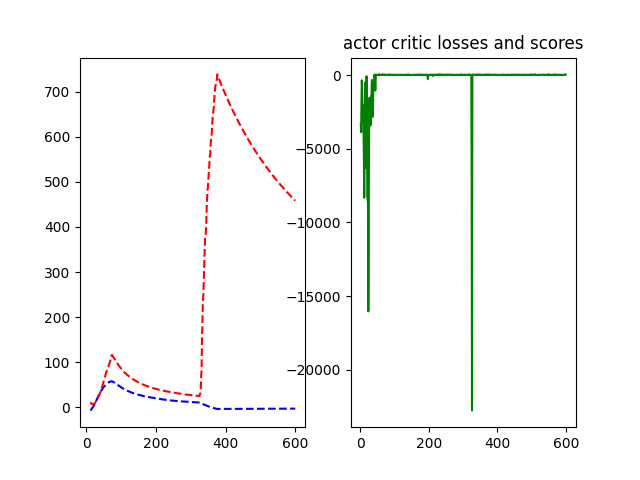
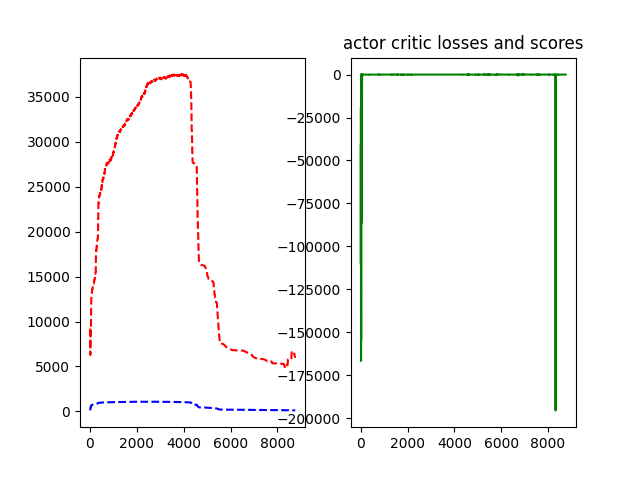
early_stop_1.0
add early stop button for agent

diff --git a/DDPG.py b/DDPG.py
@@ -29,13 +29,13 @@ run_step = 300000
 train_start_step = 5000
 
 state_size = 5
-action_size = 2
+action_size = 3
 
 mu = 0
 theta = 1e-3
 sigma = 2e-3
 
-load_model = False  # True for test, False for train
+load_model = True  # True for test, False for train
 load_param = False  # for continous learning
 train_mode = True if not load_model else False
 test_step = max_episode_steps
@@ -44,7 +44,7 @@ save_interval = 100
 
 date_time = datetime.datetime.now().strftime("%Y%m%d%H%M%S")
 save_path = f"./saved_models/{date_time}"
-load_path = f"./saved_models/env2"
+load_path = f"./saved_models/env1"
 
 x, y = sy.symbols('x y')
 
@@ -186,8 +186,8 @@ class DDPGAgent():
 
 
 if __name__ == "__main__":
-    env = env1
-    Z = Z1
+    env = env2
+    Z = Z2
 
     agent = DDPGAgent()
 
@@ -222,11 +222,12 @@ if __name__ == "__main__":
                 states[4] = float(sy.diff(Z, y).evalf(subs={x: states[0], y: states[1]}))
 
                 reward = (env(old_states[0], old_states[1]) - env(states[0], states[1])) * abs(env(old_states[0], old_states[1]) - env(states[0], states[1]))
-                reward -= 1
+                reward -= 0.1
 
                 ## if 모델이 충분히 최저점에 왔다고 판별을 하면 그만하기, +신경망으로 판별네트워크도 만들어야함
-
-                if count_step >= max_episode_steps:
+                if actions[0][2] >= 0 and random.randrange(100) < 50: # to prevent doing 'one move' and make some exploration
+                    actions[0][2] *= -1
+                if count_step >= max_episode_steps or (actions[0][2]) >= 0:
                     done = 1
                 agent.append_sample(old_states, copy.deepcopy(actions), reward, copy.deepcopy(states), done)
 
@@ -247,7 +248,6 @@ if __name__ == "__main__":
                 y_init = random.uniform(-5, 5)
                 states = [x_init, y_init, env(x_init, y_init), float(sy.diff(Z, x).evalf(subs={x: x_init, y: y_init})),
                                float(sy.diff(Z, y).evalf(subs={x: x_init, y: y_init}))]
-                count_step = 0
 
                 episode += 1
                 scores.append(score)
@@ -283,19 +283,21 @@ if __name__ == "__main__":
 
 
                 def animate(i):
-                    dx.append(agent.memory[i+len(agent.memory)-500][0][0])
-                    dy.append(agent.memory[i+len(agent.memory)-500][0][1])
-                    d.set_data(dx[i], dy[i])
+                    dx.append(agent.memory[i+len(agent.memory)-count_step][0][0])
+                    dy.append(agent.memory[i+len(agent.memory)-count_step][0][1])
+                    d.set_data(dx, dy)
 
                     return d,
 
-                anim = animation.FuncAnimation(fig, animate, frames=test_step, interval=100)
+                anim = animation.FuncAnimation(fig, animate, frames=count_step, interval=100)
 
                 writer = animation.PillowWriter(fps=15, metadata=dict(artist='Me'), bitrate=1800)
 
                 anim.save('./gifs/'+str(episode)+'.gif', writer=writer)
 
                 plt.close()
+
+                count_step = 0
 
         plt.subplot(121)
         plt.plot(range(1, len(iterations) + 1), actor_losses, 'b--')
@@ -314,9 +316,11 @@ if __name__ == "__main__":
         y_init = random.uniform(-5, 5)
         states = [x_init, y_init, env(x_init, y_init), float(sy.diff(Z, x).evalf(subs={x: x_init, y: y_init})),
                   float(sy.diff(Z, y).evalf(subs={x: x_init, y: y_init}))]
+        count_step = 0
 
         for step in range(test_step):
             if done == 0:  # not finished
+                count_step += 1
                 actions = agent.get_action(states, train_mode)
 
                 old_states = copy.deepcopy(states)
@@ -329,11 +333,11 @@ if __name__ == "__main__":
                 states[4] = float(sy.diff(Z, y).evalf(subs={x: states[0], y: states[1]}))
 
                 reward = (env(old_states[0], old_states[1]) - env(states[0], states[1])) * abs(env(old_states[0], old_states[1]) - env(states[0], states[1]))
-                reward -= 1
+                reward -= 0.1
 
                 ## if 모델이 충분히 최저점에 왔다고 판별을 하면 그만하기, +신경망으로 판별네트워크도 만들어야함
 
-                if step >= max_episode_steps - 1:
+                if step >= max_episode_steps - 1 or actions[2] >= 0:
                     done = 1
                 agent.append_sample(old_states, copy.deepcopy(actions), reward, copy.deepcopy(states), done)
 
@@ -364,7 +368,7 @@ if __name__ == "__main__":
 
                     return d,
 
-                anim = animation.FuncAnimation(fig, animate, frames=test_step, interval=100)
+                anim = animation.FuncAnimation(fig, animate, frames=count_step, interval=100)
 
                 writer = animation.PillowWriter(fps=15, metadata=dict(artist='Me'), bitrate=1800)
 
@@ -372,7 +376,7 @@ if __name__ == "__main__":
 
                 plt.show()
 
-
+                plt.close()
 # ##라인 지우기
 
 # reward, state, env 등 환경과 상호작용과 관련된 부분을 개선해야함
